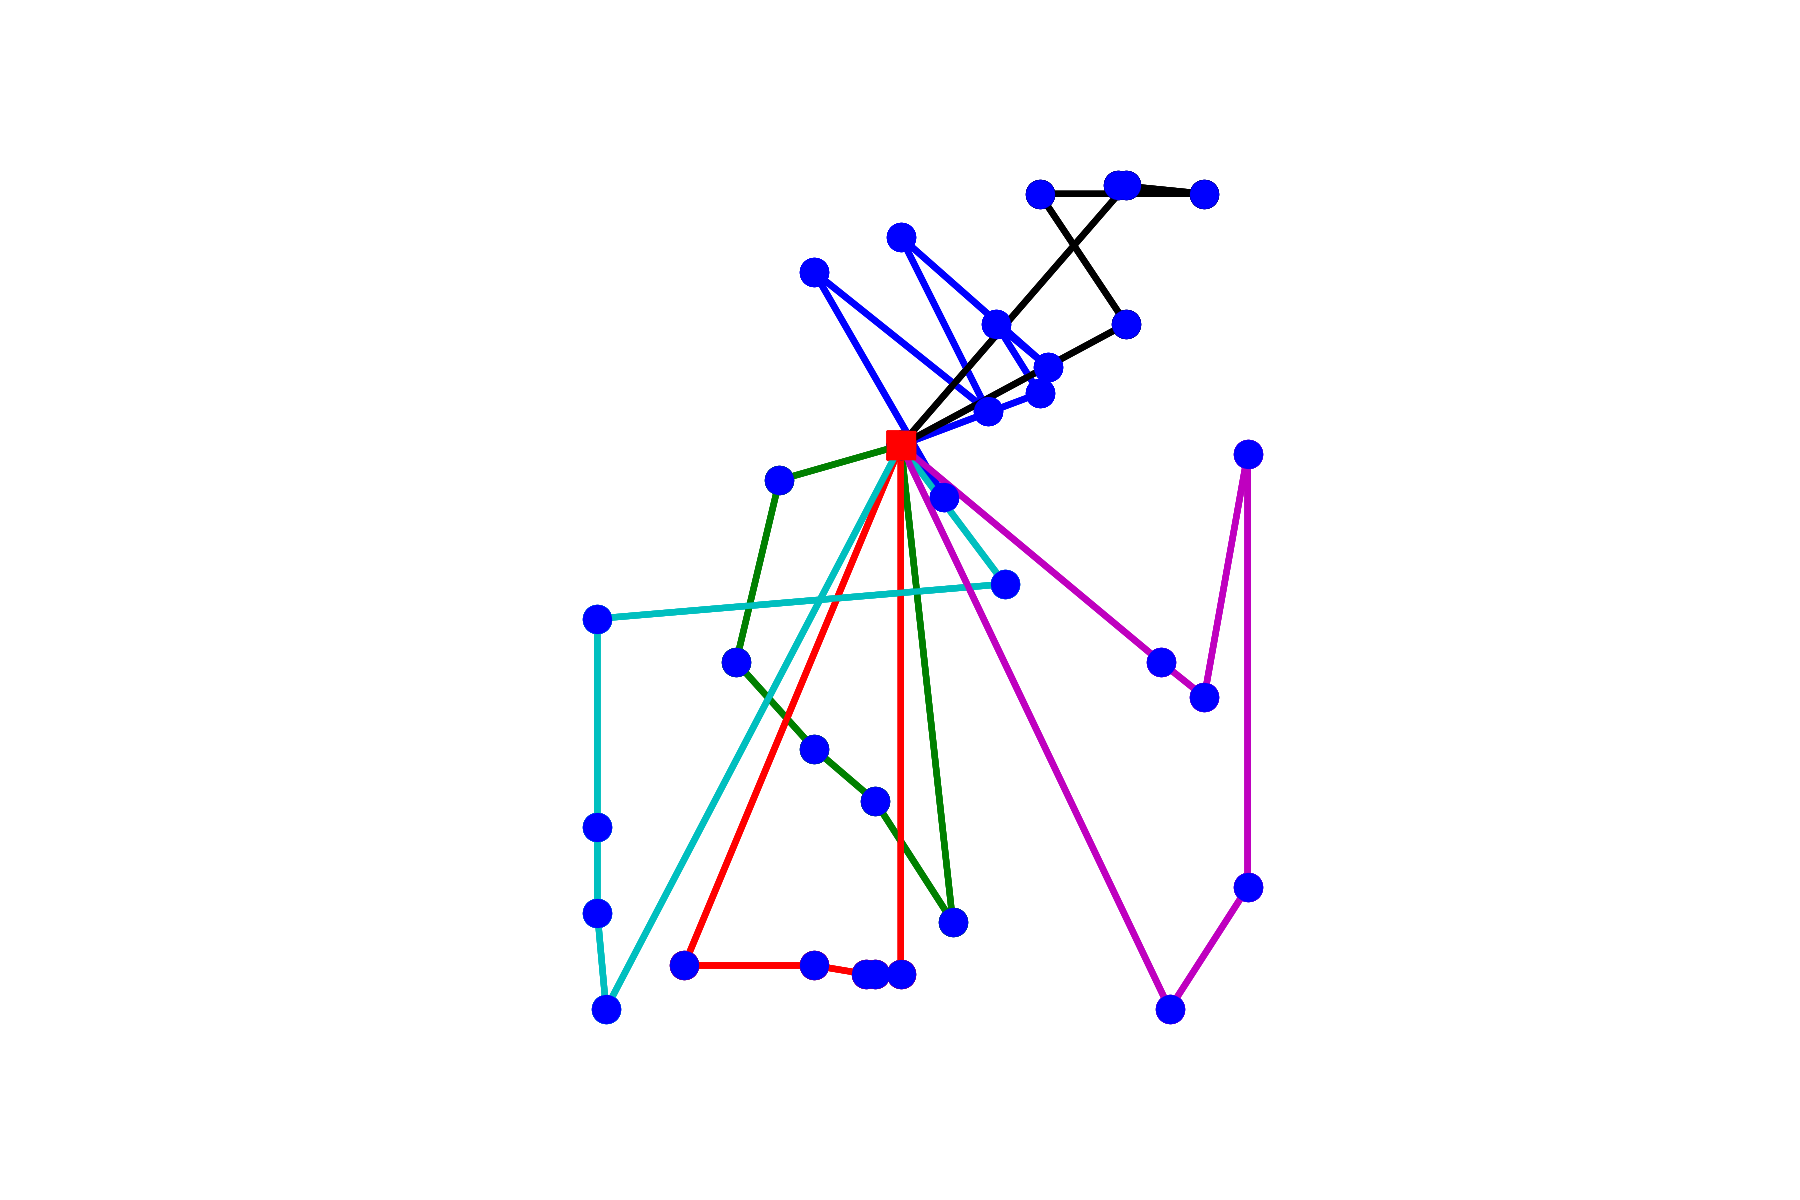
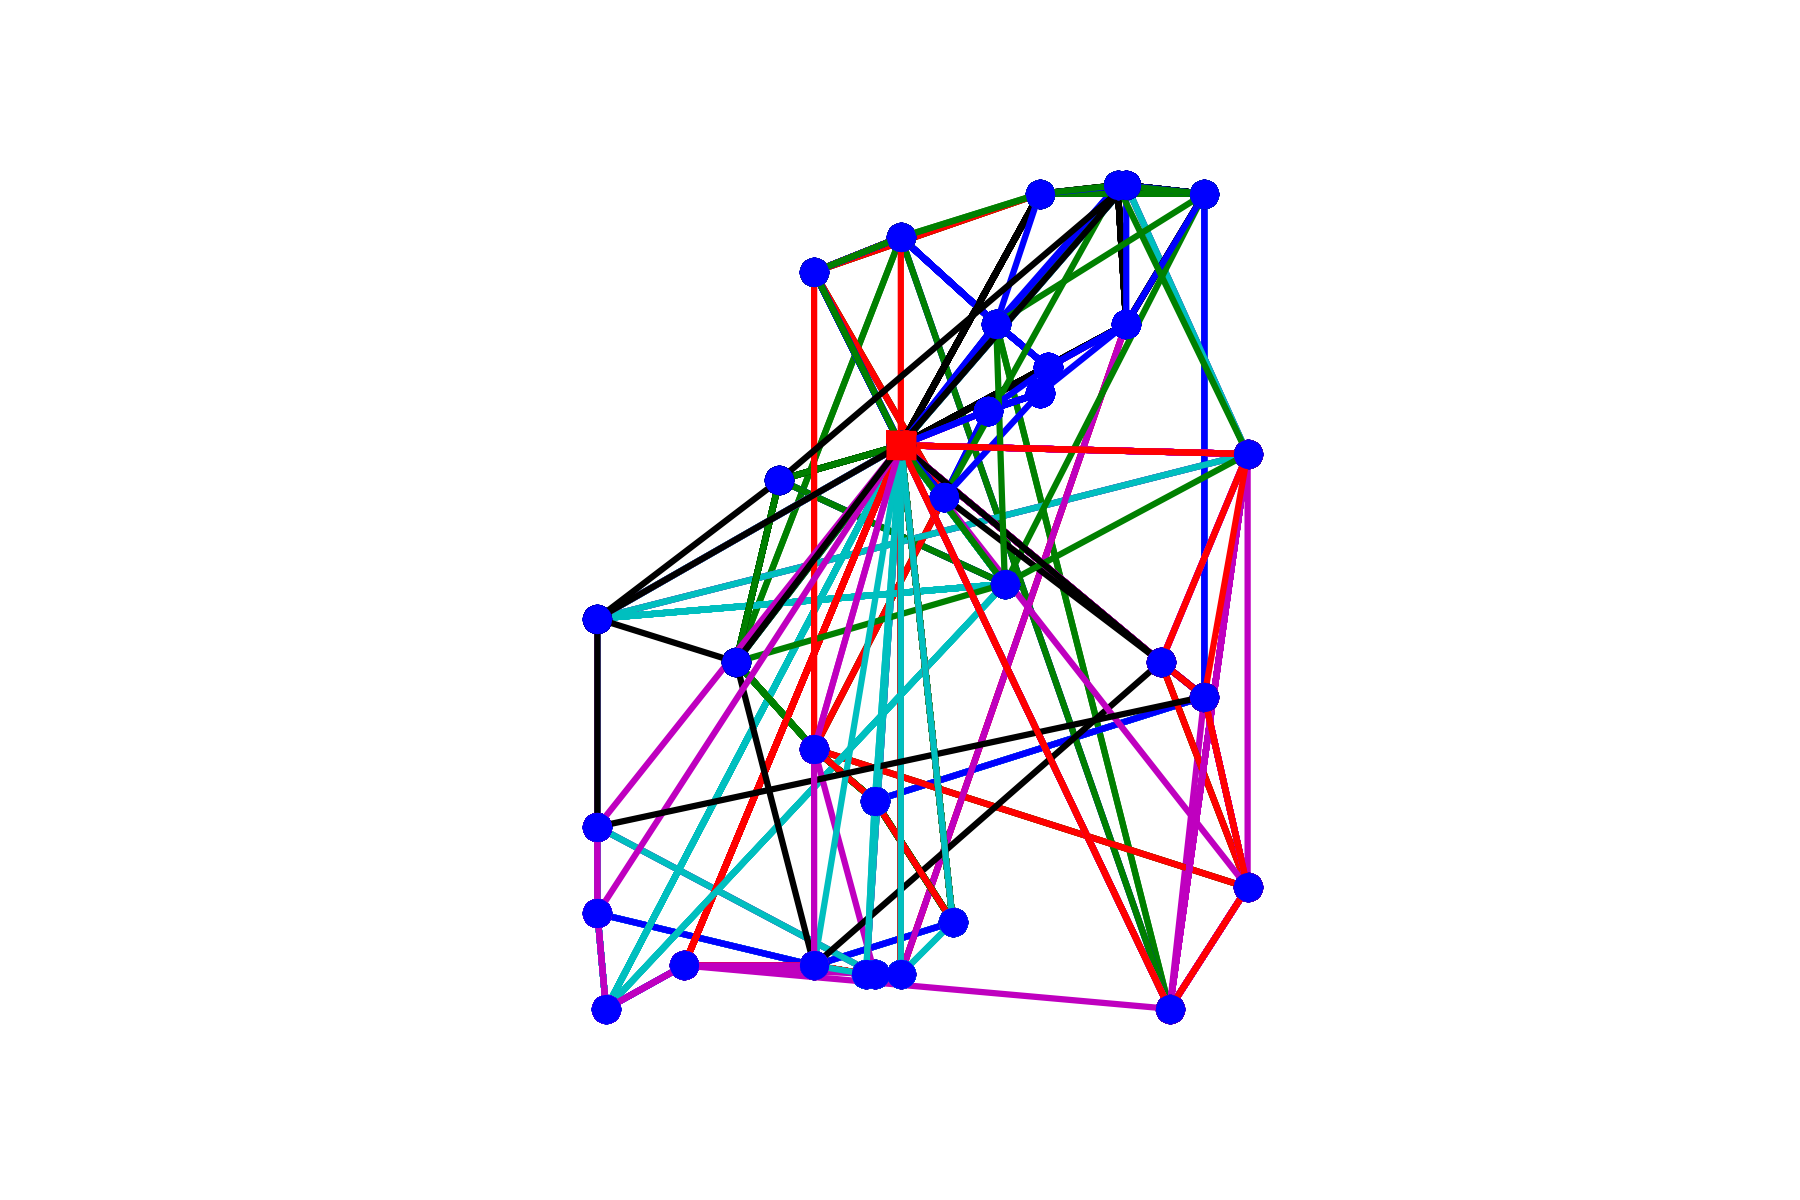
Added TwoOPT, ThreeOPT, FarAwayCluster Custom Algorithm, and K-NN

Changed region(s): [[0.3111, 0.1542, 0.7156, 0.8633]]

diff --git a/src/farawaycluster.py b/src/farawaycluster.py
@@ -1,0 +1,102 @@
+#!/usr/bin/env python3
+# -*- coding: utf-8 -*-
+"""
+Created on Sun Apr 11 07:51:01 2020
+
+@author: alexanderfalk
+"""
+import time
+import solution
+import sys
+
+class FACluster:
+
+
+    def __init__(self, instance):
+        self.instance = instance
+
+    def construct(self, time_left):
+        return self.algorithm(time_left)
+
+    def algorithm(self, time_left):
+        sol = solution.Solution(self.instance)
+        t0 = time.process_time() # Starting time
+        route = [0] # Our route
+        capacity = 0 # Our capacity for each vehicle
+        unvisited_nodes = list(self.instance.nodes[1:])
+        current_node = self.instance.nodes[0] # Starting a depot 0
+        furthest_distance = 0
+        furthest_node = None
+        closest_distance_from_furthest_node = 0
+        closest_node_from_furthest_node = None
+        
+        furthest_node_closest_nodes = []
+        
+        # While there are still nodes to visit, continue
+        while unvisited_nodes:
+            # print(unvisited_nodes)
+            # Find the node furthest away from the depot
+            for index, p in enumerate(unvisited_nodes):
+                dist = sol.instance.pre_distance(int(current_node['id']) - 1, int(p['id']) - 1)
+
+                if dist > furthest_distance or furthest_distance == 0:
+                    furthest_distance = dist
+                    furthest_node = p
+                    
+            unvisited_nodes.remove(furthest_node)
+            furthest_node_closest_nodes += [int(furthest_node['id']) - 1]
+            capacity += furthest_node['rq']
+            # As long as the capacity is not reached
+            capacity_not_reached = True
+            while capacity_not_reached and unvisited_nodes:
+
+                # Loop through the nodes closest to the furthest node
+                for index, p in enumerate(unvisited_nodes):
+                    dist = sol.instance.pre_distance(int(furthest_node['id']) - 1, int(p['id']) - 1)
+                    # print(closest_node_from_furthest_node)
+                    if dist < closest_distance_from_furthest_node or closest_distance_from_furthest_node == 0:
+                        closest_distance_from_furthest_node = dist
+                        closest_node_from_furthest_node = p
+                        
+                    # If the closest node can fit the vehicle, then add it to its own list        
+                    if capacity + closest_node_from_furthest_node['rq'] <= self.instance.capacity:
+                        capacity += closest_node_from_furthest_node['rq']
+                        furthest_node_closest_nodes += [int(closest_node_from_furthest_node['id']) - 1]
+                        unvisited_nodes.remove(closest_node_from_furthest_node)
+                        closest_distance_from_furthest_node = 0
+                    else:
+                        capacity_not_reached = False
+                  
+            # Find the shortest route in the furthest node list of closest nodes
+            sub_current_node = int(furthest_node['id']) - 1
+            closest_distance = 0
+            closest_node = None
+            while furthest_node_closest_nodes:
+                
+                for node in furthest_node_closest_nodes:
+                    dist = sol.instance.pre_distance(sub_current_node, node)
+                    
+                    if dist < closest_distance or closest_distance == 0:
+                        closest_distance = dist
+                        closest_node = node
+                        
+                route += [closest_node]
+                sub_current_node = closest_node
+                furthest_node_closest_nodes.remove(closest_node)
+                closest_distance = 0
+    
+            if time.process_time() - t0 > time_left:
+                sys.stdout.write("Time Expired")
+                return sol
+
+                            
+            sol.routes += [route+[0]]
+            route = [0]
+            capacity = 0
+            furthest_distance = 0
+            furthest_node = None
+            closest_distance_from_furthest_node = 0
+            closest_node_from_furthest_node = None
+            furthest_node_closest_nodes = []
+
+        return sol

diff --git a/src/solverKNN.py b/src/solverKNN.py
@@ -1,17 +1,18 @@
 #!/usr/bin/env python3
 # -*- coding: utf-8 -*-
 """
-Created on Fri Apr 10 07:31:15 2020
+Created on Sun Apr 12 12:11:01 2020
 
 @author: alexanderfalk
 """
 
-
+import itertools
 import time
 import solution
 import sys
+import random
 
-class NearestNeightbour:
+class KNearestNeightbour:
 
 
     def __init__(self, instance):
@@ -20,43 +21,45 @@ class NearestNeightbour:
     def construct(self, time_left):
         return self.algorithm(time_left)
 
-    def algorithm(self, time_left):
+    def algorithm(self, time_left, k=3):
         sol = solution.Solution(self.instance)
         t0 = time.process_time() # Starting time
         route = [0] # Our route
         capacity = 0 # Our capacity for each vehicle
         unvisited_nodes = list(self.instance.nodes[1:])
         current_node = self.instance.nodes[0] # Starting a depot 0
-        shortest_distance = 0
-        closest_node = None
+        distances = {}
         
         # While there are still nodes to visit, continue
         while unvisited_nodes:
             # Loop through the unvisited nodes
             for index, p in enumerate(unvisited_nodes):
                 dist = sol.instance.distance(current_node['pt'], p['pt'])
-
-                if dist < shortest_distance or shortest_distance == 0:
-                    shortest_distance = dist
-                    closest_node = p
-
-            if capacity + closest_node['rq'] <= self.instance.capacity:
-                capacity += closest_node['rq']
-                route += [int(closest_node['id']) - 1]
-                current_node = closest_node
+                distances.update( { dist : p } )
+                
+            distances = {k : v for k, v in sorted(distances.items(), key=lambda item: item[0])}
+            shortest_distances = dict(itertools.islice(distances.items(), k))
+            
+            randomly_picked_node = random.choice(list(shortest_distances.keys()))
+            node = distances.get(randomly_picked_node)
+            if capacity + node['rq'] <= self.instance.capacity:
+                capacity += node['rq']
+                route += [int(node['id']) - 1]
+                current_node = node
                 unvisited_nodes.remove(current_node)
 
             else:
                 sol.routes += [route+[0]]
                 route = [0]
-                capacity = closest_node['rq']
+                capacity = node['rq']
 
             if time.process_time() - t0 > time_left:
                 sys.stdout.write("Time Expired")
                 return sol
 
-            shortest_distance = 0
-            closest_node = None
+            distances = {}
+            node = None
+            randomly_picked_node = None            
             
         sol.routes += [route+[0]]
         return sol

diff --git a/src/twoopt.py b/src/twoopt.py
@@ -9,7 +9,7 @@ Created on Sat Apr 11 19:26:39 2020
 
 import time
 import itertools
-import copy
+import sys
 
 class TwoOPT:
 
@@ -21,10 +21,15 @@ class TwoOPT:
         return self.algorithm(time_left)
 
     def algorithm(self, time_left):
-        
+        t0 = time.process_time()
         for index, route in enumerate(self.solution.routes):
-            for A, B, C in self.tour_segments(route[1:-1]):
-                self.solution.routes[index] = self.improvement(route, A, B, C)
+            segments = self.tour_segments(route)
+            for i, j in segments:
+                self.solution.routes[index] = self.improvement(route, i, j)
+                
+            if time.process_time() - t0 > time_left:
+                sys.stdout.write("Time Expired")
+                return self.solution
         
         return self.solution
 
@@ -32,19 +37,11 @@ class TwoOPT:
         return self.solution.instance.pre_distance(i, j)
     
     def tour_segments(self, route):
-        return list(itertools.permutations(route, r = 3))
+        indices = [index for index in range(len(route))]
+        return list(itertools.permutations(indices, r = 2))
 
-    def improvement(self, route, *points):
-        A, B, C = list(points)
-        temp_route = copy.deepcopy(route)
-        if self.distance(A, B) + self.distance(B, C) > self.distance(A, C) + self.distance(C, B):
-            old_total_dist = sum(self.distance(route[i], route[i - 1]) for i in range(len(route)))
-            index_B = temp_route.index(B)
-            index_C = temp_route.index(C)
-            temp_route[index_B], temp_route[index_C] = temp_route[index_C], temp_route[index_B]
-            new_total_dist = sum(self.distance(temp_route[i], temp_route[i - 1]) for i in range(len(temp_route)))
-            if new_total_dist < old_total_dist:
-                route = copy.deepcopy(temp_route)
-
+    def improvement(self, route, i, j):
+        A, B, C, D = route[i-1], route[i], route[j-1], route[j % len(route)]
+        if self.distance(A, B) + self.distance(C, D) > self.distance(A, C) + self.distance(B, D):
+            route[i:j] = reversed(route[i:j])
         return route
-        

diff --git a/src/threeopt.py b/src/threeopt.py
@@ -1,0 +1,62 @@
+#!/usr/bin/env python3
+# -*- coding: utf-8 -*-
+"""
+Created on Sun Apr 11 10:56:48 2020
+
+@author: alexanderfalk
+"""
+
+import itertools
+import time
+import sys
+
+class ThreeOPT:
+
+
+    def __init__(self, computed_solution):
+        self.solution = computed_solution
+
+    def construct(self, time_left):
+        return self.algorithm(time_left)
+
+    def algorithm(self, time_left):
+        t0 = time.process_time()
+        for index, route in enumerate(self.solution.routes):
+            segments = self.tour_segments(route)
+            for i, j, k in segments:
+                self.solution.routes[index] = self.improvement(route, i, j, k)
+                
+        if time.process_time() - t0 > time_left:
+                sys.stdout.write("Time Expired")
+                return self.solution
+        
+        return self.solution
+
+    def distance(self, i, j):
+        return self.solution.instance.pre_distance(i, j)
+    
+    def tour_segments(self, route):
+        indices = [index for index in range(len(route))]
+        return list(itertools.combinations(indices, r = 3))
+
+    def improvement(self, route, i, j, k):
+        A, B, C, D, E, F = route[i-1], route[i], route[j-1], route[j], route[k-1], route[k % len(route)]
+        dist0 = self.distance(A, B) + self.distance(C, D) + self.distance(E, F)
+        dist1 = self.distance(A, C) + self.distance(B, D) + self.distance(E, F)
+        dist2 = self.distance(A, B) + self.distance(C, E) + self.distance(D, F)
+        dist3 = self.distance(A, D) + self.distance(E, B) + self.distance(C, F)
+        dist4 = self.distance(F, B) + self.distance(C, D) + self.distance(E, A)
+        
+        if dist0 > dist1:
+            route[i:j] = reversed(route[i:j])
+            
+        elif dist0 > dist2:
+            route[j:k] = reversed(route[j:k])
+            
+        elif dist0 > dist4:
+            route[i:k] = reversed(route[i:k])
+            
+        elif dist0 > dist3:
+            route[i:k] = route[j:k] + route[i:j]
+            
+        return route

diff --git a/src/main.py b/src/main.py
@@ -4,10 +4,13 @@ import sys
 import argparse
 import time
 import data
+import farawaycluster
 # import solverCH
 import solverLS
 import solverNN
+import solverKNN
 import twoopt
+import threeopt
 import os
 # @my_logger
 # @my_timer
@@ -15,11 +18,13 @@ import os
 
 def solve(instance, config):
     t0 = time.process_time()
-    ch = solverNN.NearestNeightbour(instance)
+    # ch = farawaycluster.FACluster(instance)
+    ch = solverKNN.KNearestNeightbour(instance)
     sol = ch.construct(config.time_limit-t0)  # returns an object of type Solution
 
     t0 = time.process_time()
-    ls = twoopt.TwoOPT(sol)
+    # ls = twoopt.TwoOPT(sol)
+    ls = threeopt.ThreeOPT(sol)
     sol = ls.construct(config.time_limit-t0)  # returns an object of type Solution
     return sol
 

diff --git a/src/solution.py b/src/solution.py
@@ -1,5 +1,4 @@
 import collections
-import math
 import matplotlib
 matplotlib.use('Agg')
 import matplotlib.pyplot as plt
@@ -11,11 +10,8 @@ class Solution:
         self.routes = []
 
     def valid_solution(self):
-       
-        leaving_vehicles = 0
-        entering_vehicles = 0
-        max_capacity = self.instance.capacity
-        print(self.routes[0])
+        
+        # Checking if any vehicle is visiting an already visited point
         duplicates = [point for route in self.routes 
                       for point, count in collections.Counter(route[1:-1]).items() 
                       if count > 1]
